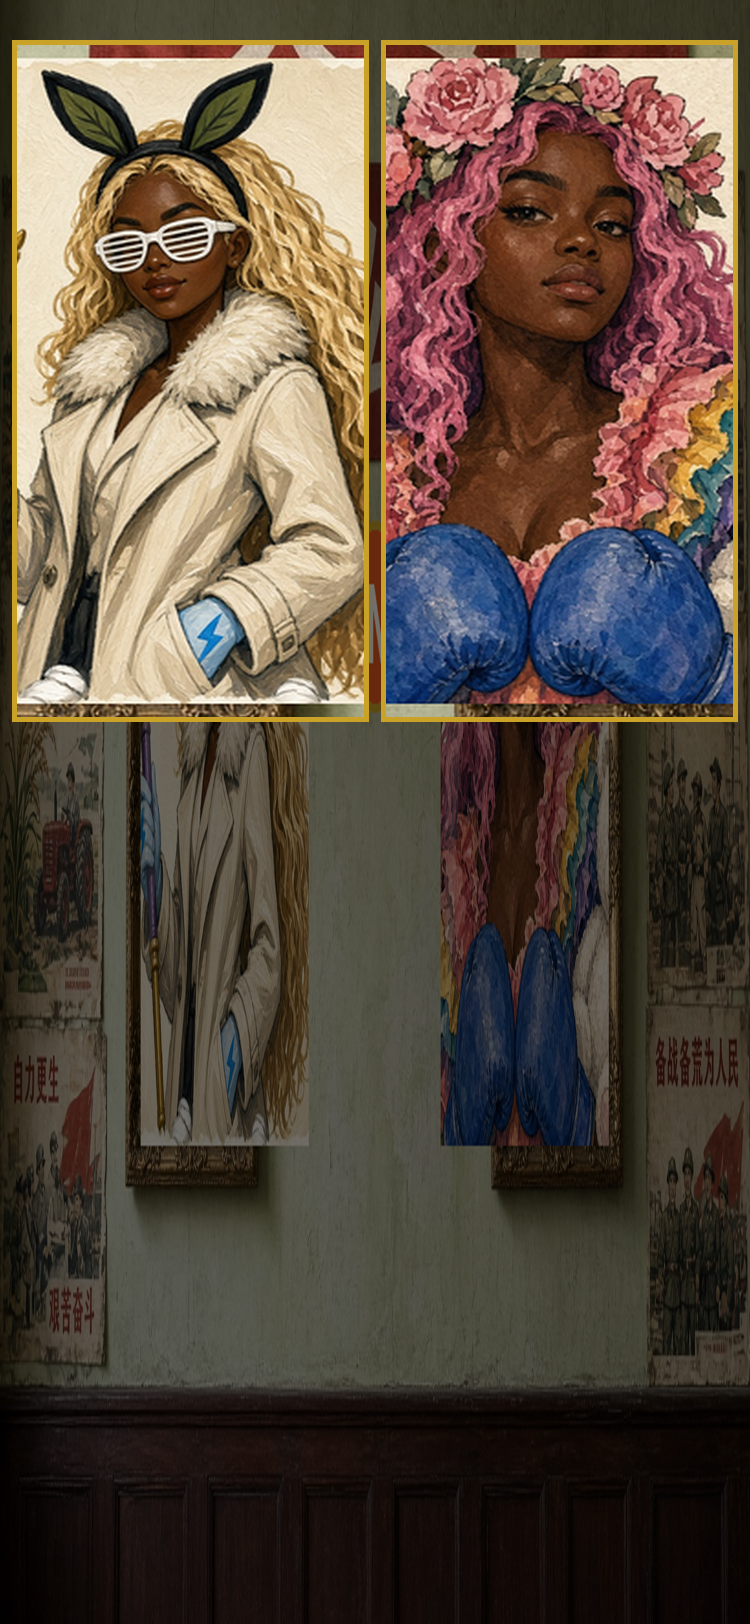
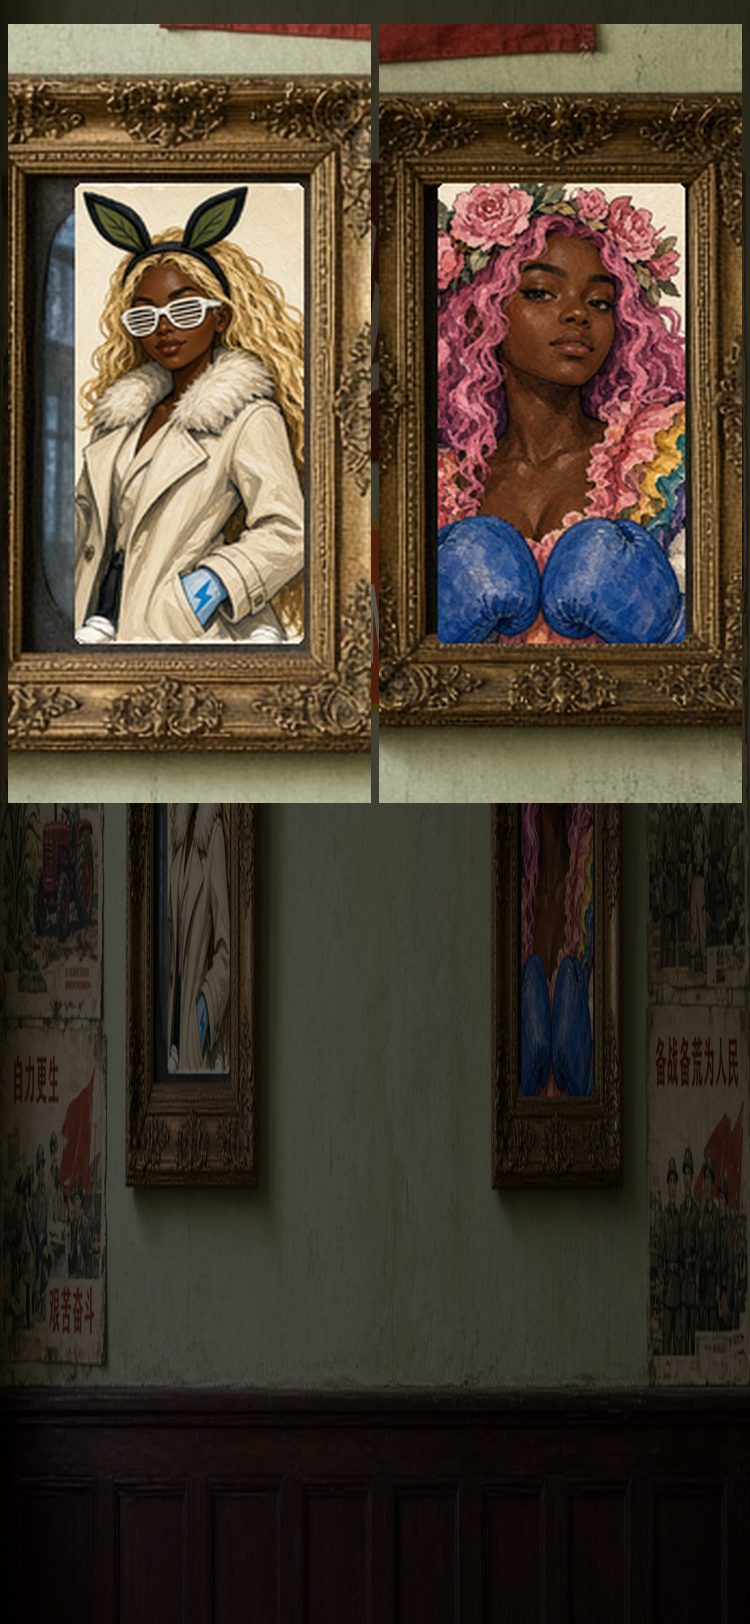
temp preview: NumbahWan LP v7.1 cell G contain-fit (art inside frames)

diff --git a/DESIGN.md b/DESIGN.md
@@ -21,7 +21,7 @@ Commune hall → Kerning scrub → Join.
 | Surface | Photoreal wall+挂屏; **inside** = text-free gouache 宣传画 |
 | Motion | Scroll-driven kerning + @supports + reduced-motion |
 | Composition | N+GS+VGS flush hang; slogans only on wall banner not in portraits |
-| Rejects | Slogan-in-portrait; wrong gloves/coat; photoreal grey-mat; A–F |
+| Rejects | G aperture contain-fit (no bleed);  Slogan-in-portrait; wrong gloves/coat; photoreal grey-mat; A–F |
 
 ## RegginA wardrobe checklist (L1 gs-costume HARD)
 - [ ] Cream/off-white fur trench (not black leather / teal dress)
@@ -32,3 +32,6 @@ Commune hall → Kerning scrub → Join.
 - [ ] Winged $ cane + purple grip
 - [ ] Hair anatomical left → almost waist
 - [ ] **No text** inside portrait pane
+
+## Cell G
+Portrait art clipped **inside** 挂屏 glass/mat — continuous molding; no plate-on-frame.
